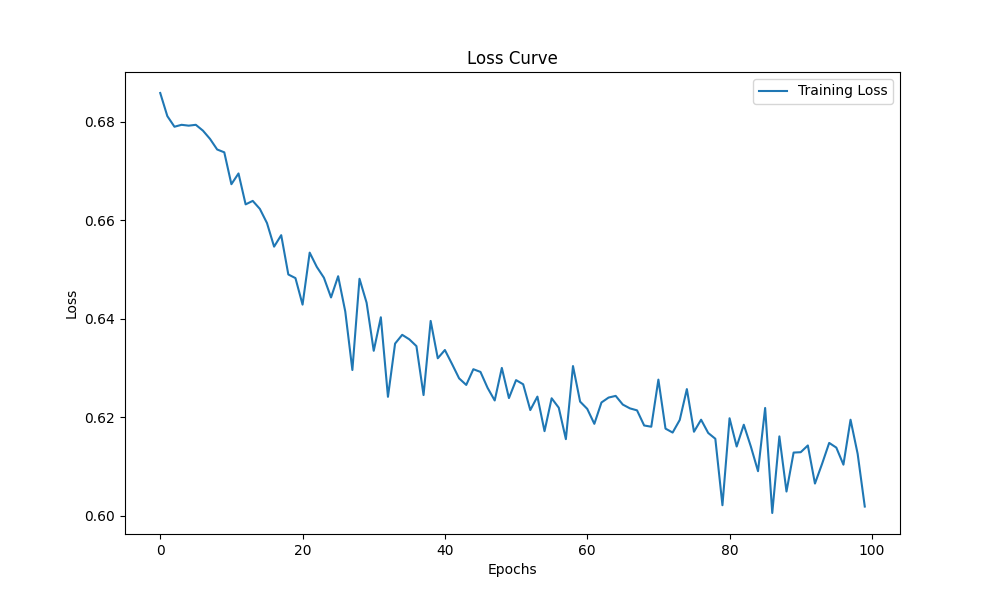
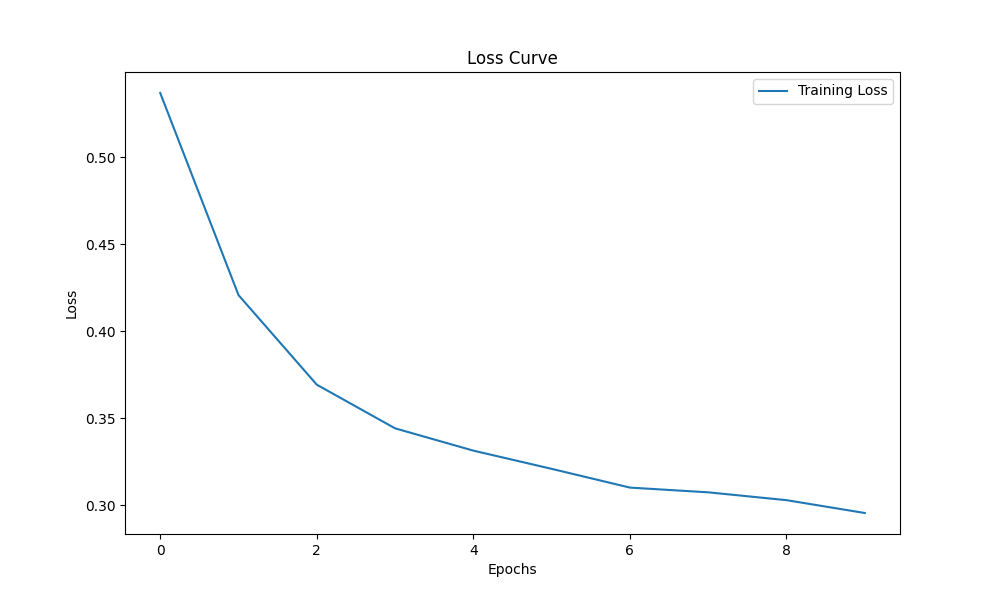
Doing good.

diff --git a/data_producer.py b/data_producer.py
@@ -92,61 +92,60 @@ def torch_data_from_trace(truncated_log_trace, attacksteps, debug_print=False):
 
     return data
 
-def produce_training_data(log_window=25, max_start_time_step=100, rddl_path='content/', random_cyber_agent_seed=42, debug_print=False):
+def produce_training_data(n_simulations=10, log_window=25, max_start_time_step=100, rddl_path='content/', random_cyber_agent_seed=42, debug_print=False):
 
     data_series = []
 
     myEnv = RDDLEnv.RDDLEnv(domain=rddl_path+'domain.rddl', instance=rddl_path+'instance.rddl')
 
-    start_step =  random.randint(log_window, max_start_time_step)
-    agent = PassiveCyberAgent(action_space=myEnv.action_space)
+    for i_sims in range(n_simulations):
+        start_step =  random.randint(log_window, max_start_time_step)
+        agent = PassiveCyberAgent(action_space=myEnv.action_space)
 
-    log_trace = []
-    total_reward = 0
-    state = myEnv.reset()
-    start_time = time.time()
-    if debug_print:
-        print(f'Starting attack at step {start_step}')
-        print(f'step         = 0')
-        print(f'attack steps = {[attackstep for attackstep, value in state.items() if type(value) is numpy.bool_ and value == True]}')
-        print(f'TTCs         = {[(attackstep, value) for attackstep, value in state.items() if type(value) is numpy.int64]}')
-    for step in range(myEnv.horizon):
-        if step == start_step:
-            agent = RandomCyberAgent(action_space=myEnv.action_space, seed=random_cyber_agent_seed)
-            if debug_print:
-                print(f'Now initiating attack.')
-        action = agent.sample_action()
-        next_state, reward, done, info = myEnv.step(action)
-        observations = [key for key, value in next_state.items() if type(value) is numpy.bool_ and value == True and "observed" in key]
-        log_trace.append(observations)
-        truncated_log_trace = log_trace[-log_window:]
-        attacksteps = [key for key, value in next_state.items() if type(value) is numpy.bool_ and value == True and "observed" not in key]
-        total_reward += reward
-        state = next_state
+        log_trace = []
+        total_reward = 0
+        state = myEnv.reset()
+        start_time = time.time()
         if debug_print:
-            print()
-            print(f'step              = {step}')
-            print(f'action            = {action}')
-            print(f'observations      = {observations}')
-            print(f'log trace (trunc) = {truncated_log_trace}')
-            print(f'attack steps      = {attacksteps}')
-            print(f'TTCs              = {[(attackstep, value) for attackstep, value in next_state.items() if type(value) is numpy.int64]}')
-            print(f'reward            = {reward}')
-
-        if step >= log_window:
+            print(f'Starting attack at step {start_step}')
+            print(f'step         = 0')
+            print(f'attack steps = {[attackstep for attackstep, value in state.items() if type(value) is numpy.bool_ and value == True]}')
+            print(f'TTCs         = {[(attackstep, value) for attackstep, value in state.items() if type(value) is numpy.int64]}')
+        for step in range(myEnv.horizon):
+            if step == start_step:
+                agent = RandomCyberAgent(action_space=myEnv.action_space, seed=random_cyber_agent_seed)
+                if debug_print:
+                    print(f'Now initiating attack.')
+            action = agent.sample_action()
+            next_state, reward, done, info = myEnv.step(action)
+            observations = [key for key, value in next_state.items() if type(value) is numpy.bool_ and value == True and "observed" in key]
+            log_trace.append(observations)
+            truncated_log_trace = log_trace[-log_window:]
+            attacksteps = [key for key, value in next_state.items() if type(value) is numpy.bool_ and value == True and "observed" not in key]
+            total_reward += reward
+            state = next_state
             if debug_print:
-                print(f'Now initiating logging (having populated the beginning of the log with non-malicious data).')
+                print()
+                print(f'step              = {step}')
+                print(f'action            = {action}')
+                print(f'observations      = {observations}')
+                print(f'log trace (trunc) = {truncated_log_trace}')
+                print(f'attack steps      = {attacksteps}')
+                print(f'TTCs              = {[(attackstep, value) for attackstep, value in next_state.items() if type(value) is numpy.int64]}')
+                print(f'reward            = {reward}')
 
-            data = torch_data_from_trace(truncated_log_trace, attacksteps, debug_print=debug_print)
-            data_series.append(data)
+            if step >= log_window:
+                if debug_print:
+                    print(f'Now initiating logging (having populated the beginning of the log with non-malicious data).')
 
-        if done:
-            break
+                data = torch_data_from_trace(truncated_log_trace, attacksteps, debug_print=debug_print)
+                data_series.append(data)
 
-    if debug_print:
+            if done:
+                break
+
         end_time = time.time()
-        print()
-        print(f'episode ended with reward {total_reward}. Execution time was {end_time-start_time} s.')
+        print(f'Simulation {i_sims}: episode ended with reward {total_reward}. Execution time was {end_time-start_time} s.')
 
     myEnv.close()
     return data_series

diff --git a/gnn_trainer.py b/gnn_trainer.py
@@ -5,7 +5,8 @@ from torch_geometric.nn import GCNConv
 from torch_geometric.loader import DataLoader
 from data_producer import produce_training_data
 
-data_series = produce_training_data()
+log_window = 200
+data_series = produce_training_data(n_simulations=10, log_window=log_window, max_start_time_step=300, rddl_path='content/', random_cyber_agent_seed=42, debug_print=False)
 
 class GCN(torch.nn.Module):
     def __init__(self, num_node_features, num_classes):
@@ -22,7 +23,7 @@ class GCN(torch.nn.Module):
         return F.log_softmax(x, dim=1)
 
 # Initialize model
-model = GCN(num_node_features=26, num_classes=2) # 26 features, 2 classes (compromised/not compromised)
+model = GCN(num_node_features=log_window+1, num_classes=2) # 26 features, 2 classes (compromised/not compromised)
 optimizer = torch.optim.Adam(model.parameters(), lr=0.01)
 
 # DataLoader
@@ -30,7 +31,7 @@ data_loader = DataLoader(data_series, batch_size=1, shuffle=True)
 
 # Training loop
 loss_values = []
-for epoch in range(100):  # number of epochs
+for epoch in range(10):  # number of epochs
     epoch_loss = 0.0
     for batch in data_loader:
         optimizer.zero_grad()
